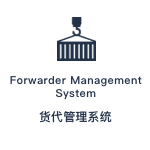
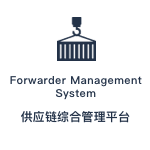
远桥: 修改登录页logo

Changed region(s): [[0.1333, 0.72, 0.88, 0.8267]]

diff --git a/WebRoot/WEB-INF/template/eeda/login.html b/WebRoot/WEB-INF/template/eeda/login.html
@@ -30,7 +30,8 @@
     
    <% if(isEnkyo=="/css/enkyo.css"){ %>
 	   <section class="login_back_half_up">
-	        <h1 class="login_logo"><strong>远桥供应链</strong>
+	        <h1 class="login_logo">
+                <img height="80" ="" src="/images/enkyo/logo.jpg">
 	        </h1>
 	        <div class="login_langs">
 	            <button class="simple_btn active">中文</button>

diff --git a/WebRoot/WEB-INF/template/eeda/index.html b/WebRoot/WEB-INF/template/eeda/index.html
@@ -28,7 +28,8 @@
 	
     <section class="login_back_top">
     <% if(isEnkyo=="/css/enkyo.css"){ %>
-        <h2 class="login_logo"><strong>远桥供应链</strong>
+        <h2 class="login_logo">
+            <img height="80" ="" src="/images/enkyo/logo.jpg">
         </h2>
    <% }else{ %>
         <div class="login_logo">
